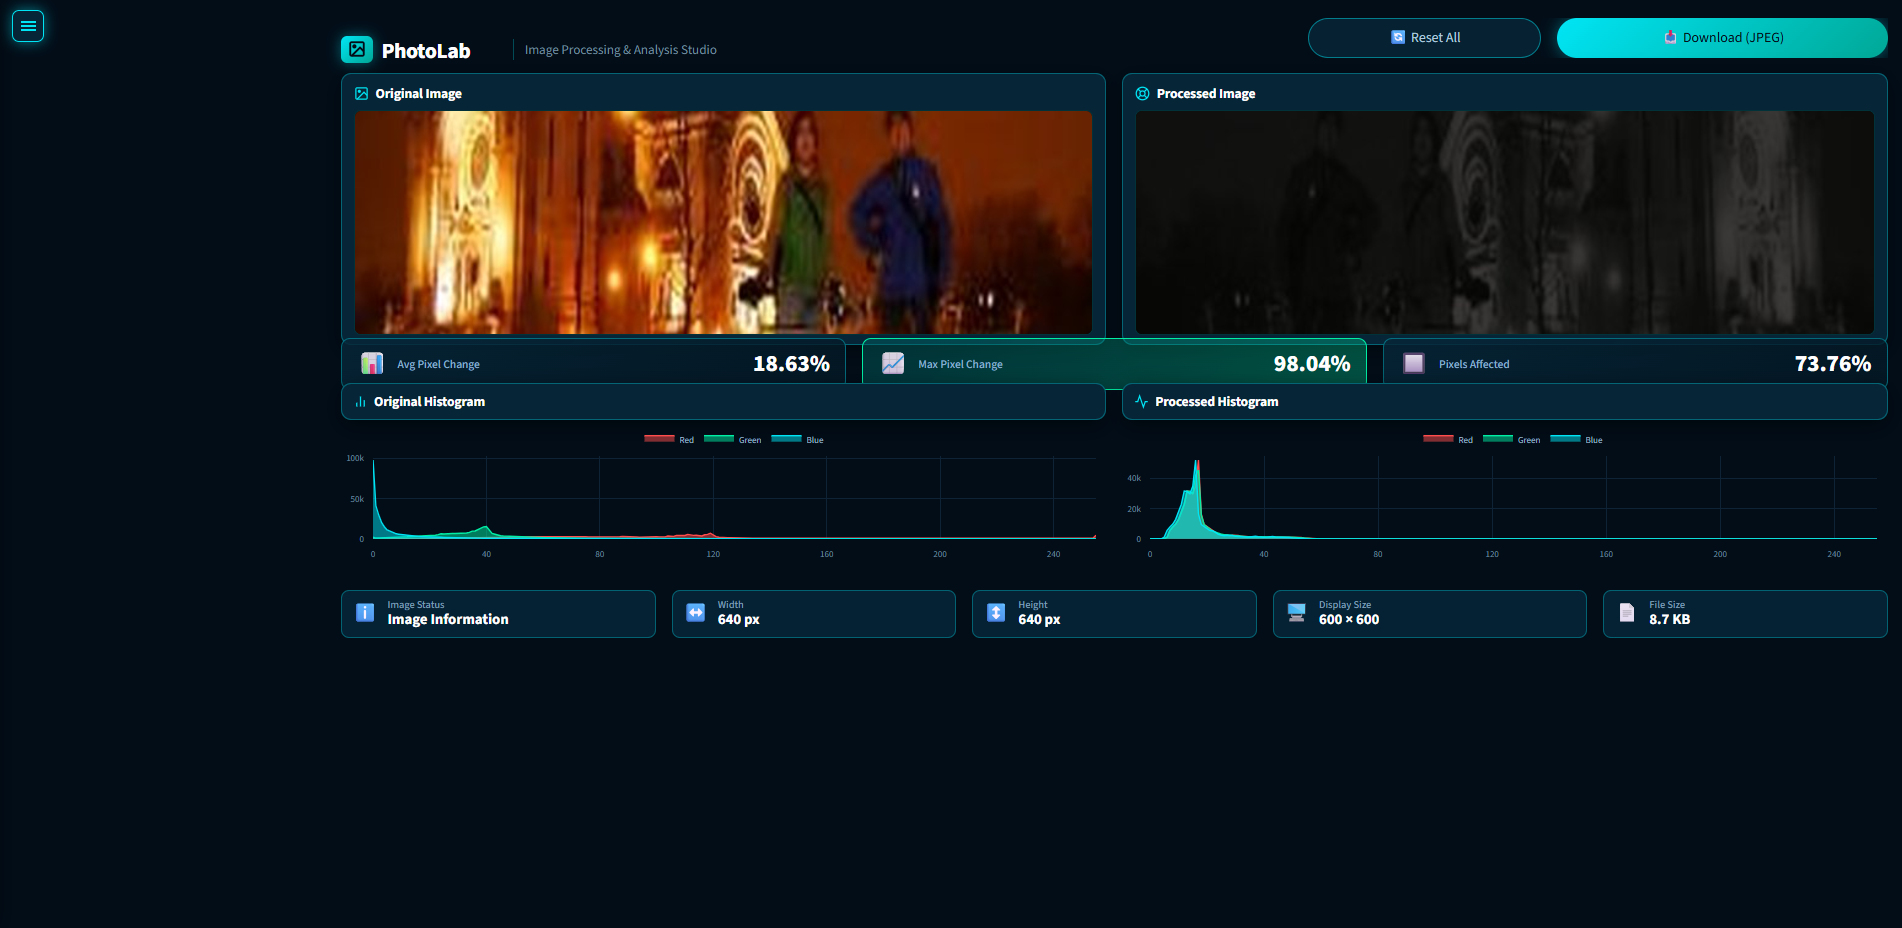
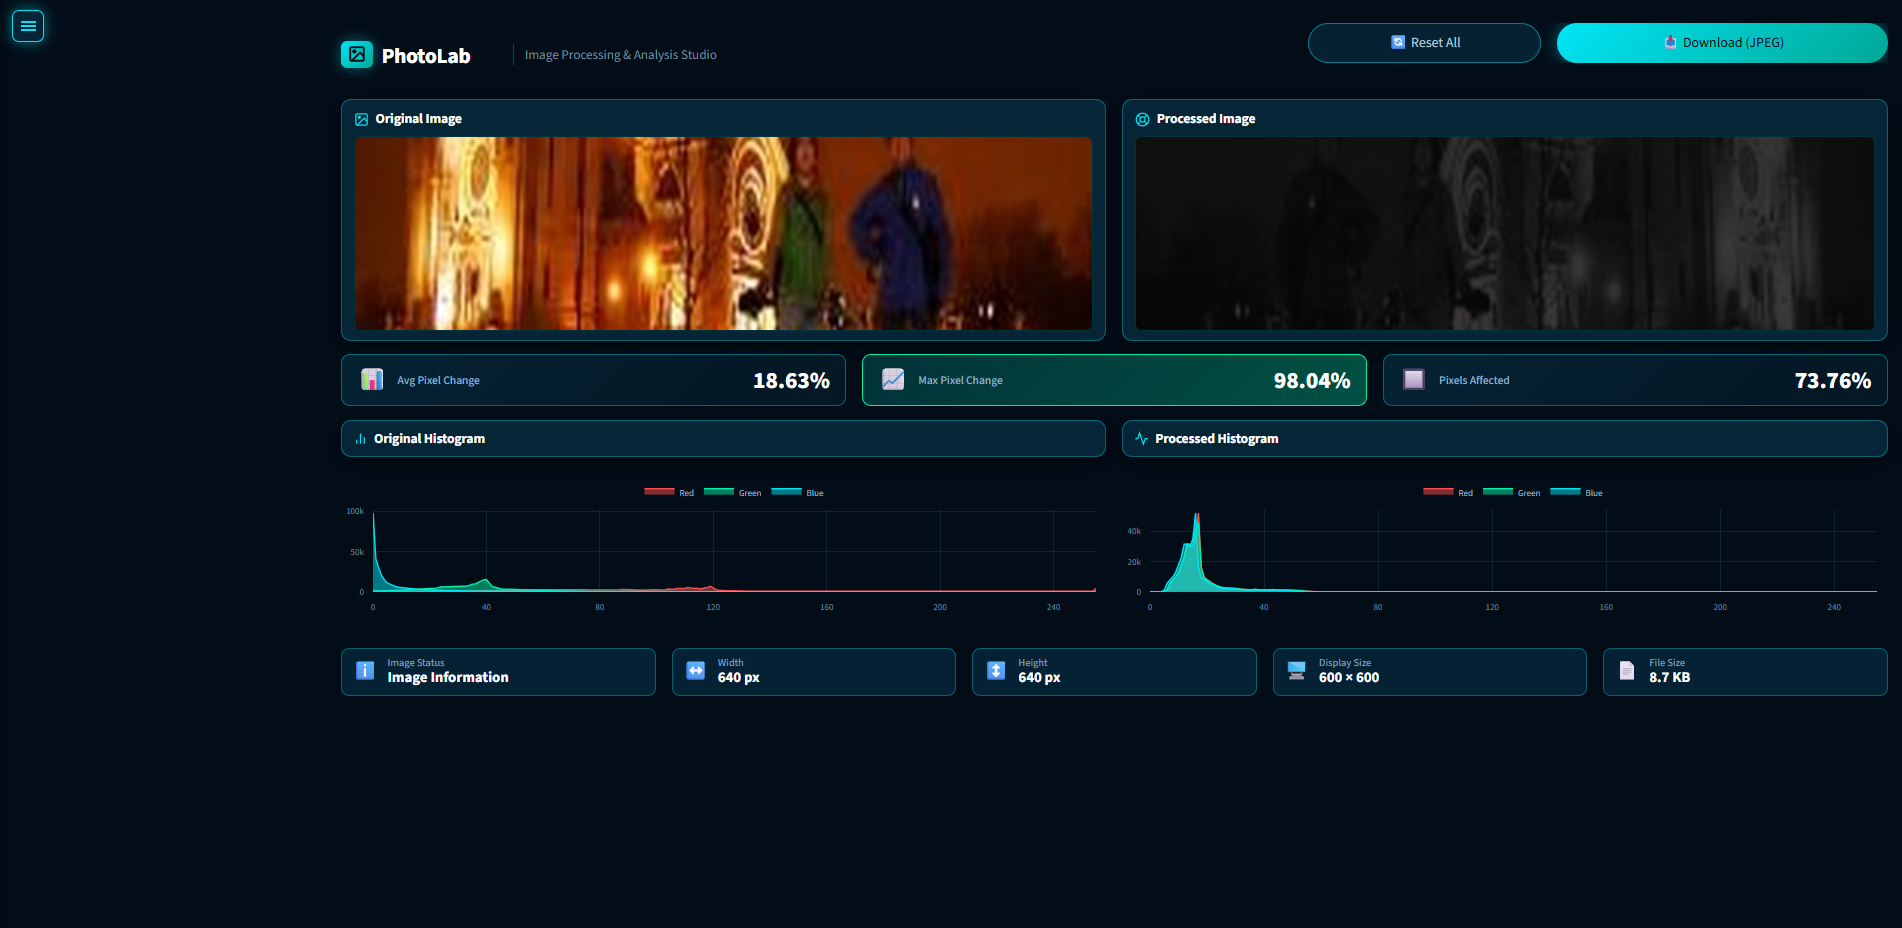
fix: add spacing between image cards, metric badges, and histogram rows; eliminate overlaps

Changed region(s): [[0.1551, 0.0, 0.9926, 0.75]]

diff --git a/app.py b/app.py
@@ -195,7 +195,7 @@ st.markdown("""
             display: flex !important;
             flex-direction: column !important;
             justify-content: flex-start !important;
-            gap: 0.55rem !important;
+            gap: 0.85rem !important;
             box-sizing: border-box !important;
         }
 
@@ -204,7 +204,7 @@ st.markdown("""
             display: flex !important;
             flex-direction: column !important;
             justify-content: flex-start !important;
-            gap: 0.55rem !important;
+            gap: 0.85rem !important;
         }
 
         [data-testid="stSidebar"] {
@@ -229,10 +229,10 @@ st.markdown("""
         }
 
         .img-display-box {
-            height: 225px !important;
+            height: 195px !important;
         }
         .img-display-box img {
-            height: 225px !important;
+            height: 195px !important;
         }
     }
 
@@ -530,7 +530,14 @@ st.markdown("""
         text-overflow: ellipsis !important;
     }
 
-    /* ── DASHBOARD CARDS ── */
+    /* ── DASHBOARD CARDS & CONTAINERS ── */
+    [data-testid="stMarkdownContainer"] {
+        margin-bottom: 0 !important;
+    }
+    .stMarkdown, [data-testid="stMarkdown"], [data-testid="stElementContainer"] {
+        height: auto !important;
+    }
+
     .studio-card {
         background: var(--card-bg);
         border: 1px solid rgba(0, 217, 232, 0.35);
